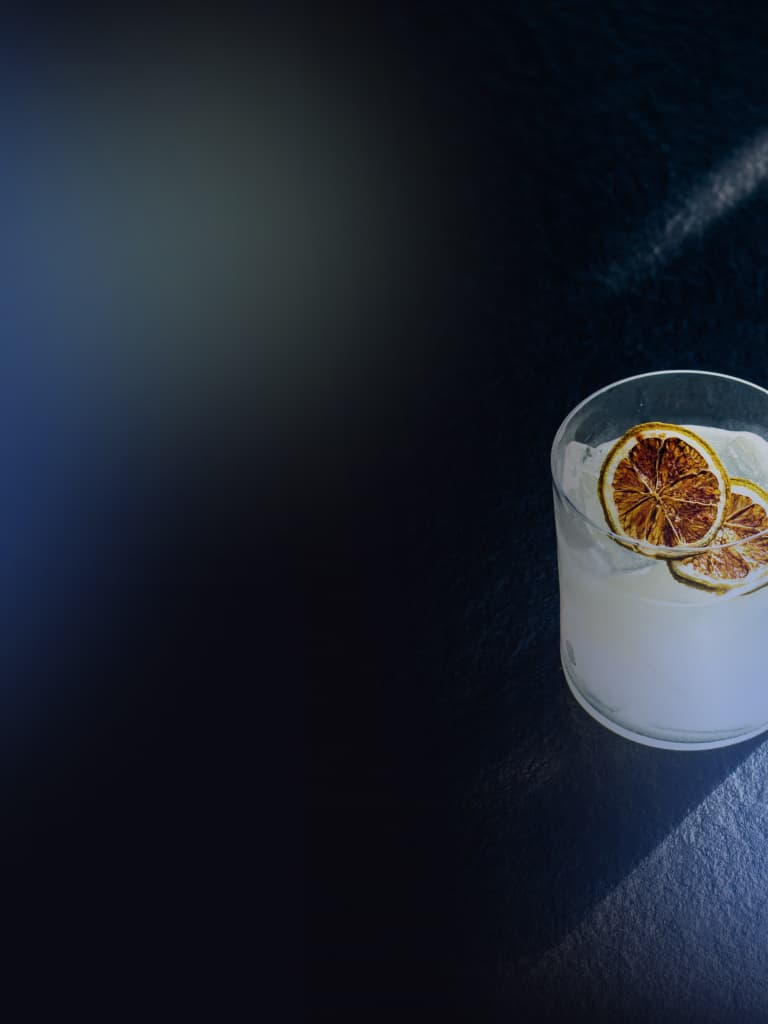
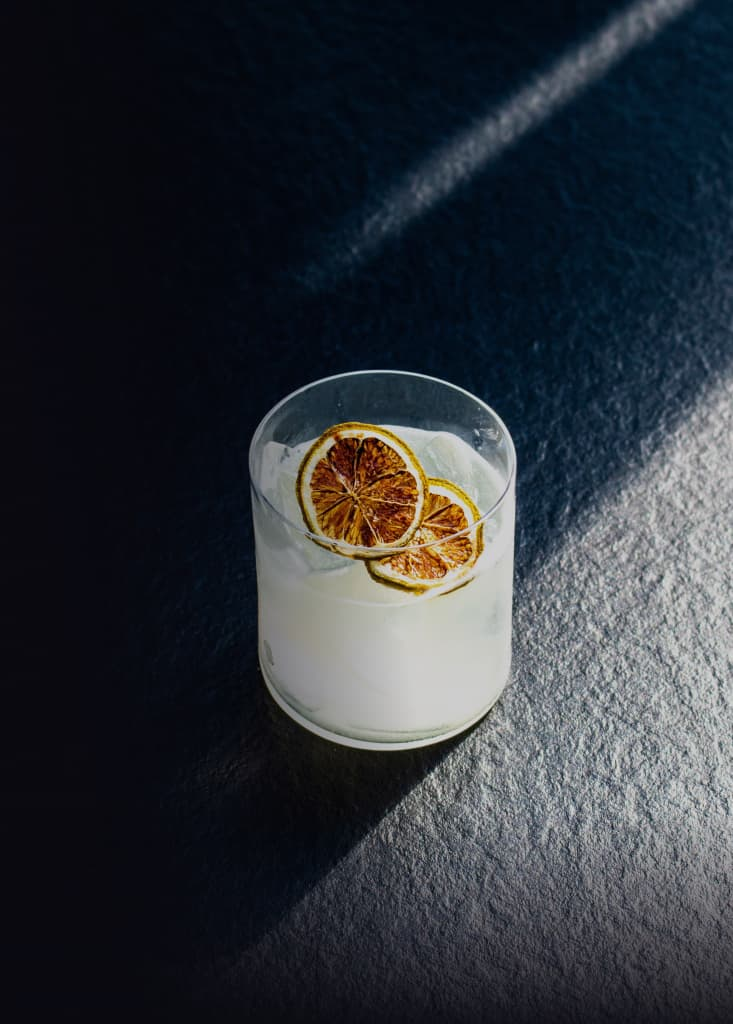
updated pictures

diff --git a/src/pages/WelcomePages/StartPage/StartPage.styled.jsx b/src/pages/WelcomePages/StartPage/StartPage.styled.jsx
@@ -2,38 +2,19 @@ import styled from 'styled-components';
 import { Link } from 'react-router-dom';
 import { CommonContainer } from '../../../components/GlobalStyles/CommonContainer.styled';
 
-// import startMobile1x from '../../../assets/start/start_mobile@1x.jpg';
-// import startMobile2x from '../../../assets/start/start_mobile@2x.jpg';
+import startMobile1x from '../../../assets/start/start_mobile@1x.jpg';
+import startMobile2x from '../../../assets/start/start_mobile@2x.jpg';
 
-// import startTublet1x from '../../../assets/start/start_tablet@1x.jpg';
-// import startTublet2x from '../../../assets/start/start_tablet@2x.jpg';
+import startTublet1x from '../../../assets/start/start_tablet@1x.jpg';
+import startTublet2x from '../../../assets/start/start_tablet@2x.jpg';
 
-// import startPC1x from '../../../assets/start/start@1x.jpg';
-// import startPC2x from '../../../assets/start/start@2x.jpg';
-import start1 from '../../../assets/start/start-1.jpg';
-import start2 from '../../../assets/start/start-2.jpg';
-
-import starttab1 from '../../../assets/start/start-tab-1.jpg';
-import starttab2 from '../../../assets/start/start-tab-2.jpg';
-
-
-import startmob1 from '../../../assets/start/mob-1.jpg';
-import startmob2 from '../../../assets/start/mob-2.jpg';
+import startPC1x from '../../../assets/start/start@1x.jpg';
+import startPC2x from '../../../assets/start/start@2x.jpg';
 
 import startEllipseLeft from '../../../assets/start/start-ellipse-left.svg';
 import startEllipseRight from '../../../assets/start/start-ellipse-right.svg';
 import startEllipseLeftTab from '../../../assets/start/tab-elipse-left.svg';
 import startEllipseRightTab from '../../../assets/start/tab-elipse-right.svg';
-// import ellipseLeftFooter from '../../../assets/footer/ellipseleft-footer.png';
-// import ellipseRightFooter from '../../../assets/footer/ellipseright-footer.png';
-
-// import background380 from './assets/bg/background380.png';
-// import background550 from '../../../assets/bg/background550.png';
-// import background850 from './assets/bg/background850.png';
-
-
-// import startEllipseLeftMob from '../../../assets/start/mob-elipse-left.svg';
-// import startEllipseRightTab from '../../../assets/start/tab-elipse-right.svg';
 
 export const StartPageStyled = styled.section`
   display: flex;
@@ -44,7 +25,7 @@ export const StartPageStyled = styled.section`
   height: 100vh;
 
   background: url(${startEllipseLeftTab}), url(${startEllipseRightTab}),
-    url(${startmob1});
+    url(${startMobile1x});
   background-repeat: no-repeat;
   background-size: 100%, 40%, auto;
   background-position:
@@ -58,7 +39,7 @@ export const StartPageStyled = styled.section`
     (max-width: 767.98px) and (min-resolution: 192dpi),
     (max-width: 767.98px) and (min-resolution: 2dppx) {
     background: url(${startEllipseLeftTab}), url(${startEllipseRightTab}),
-      url(${startmob2});
+      url(${startMobile2x});
     background-repeat: no-repeat;
     background-size: 100%, 40%, 150%;
     background-position:
@@ -70,7 +51,7 @@ export const StartPageStyled = styled.section`
 
   @media (min-width: 768px) {
     background: url(${startEllipseLeftTab}), url(${startEllipseRightTab}),
-      url(${starttab1});
+      url(${startTublet1x});
     background-repeat: no-repeat;
     background-size: 70%, 30%, 80%;
     background-position:
@@ -84,18 +65,18 @@ export const StartPageStyled = styled.section`
     (min-width: 768px) and (min-resolution: 192dpi),
     (min-width: 768px) and (min-resolution: 2dppx) {
     background: url(${startEllipseLeftTab}), url(${startEllipseRightTab}),
-      url(${starttab2});
+      url(${startTublet2x});
     background-repeat: no-repeat;
-    background-size: 70%, 30%, 56%;
+    background-size: 70%, 30%, 80%;
     background-position:
       top left,
       bottom right,
-      center right;
+      center right -140%;
     background-color: #0a090f;
   }
   @media (min-width: 1440px) {
     background: url(${startEllipseLeft}), url(${startEllipseRight}),
-      url(${start1});
+      url(${startPC1x});
     background-repeat: no-repeat;
     background-size: 50%, 30%, 45%;
     background-position:
@@ -109,7 +90,7 @@ export const StartPageStyled = styled.section`
     (min-width: 1440px) and (min-resolution: 192dpi),
     (min-width: 1440px) and (min-resolution: 2dppx) {
     background: url(${startEllipseLeft}), url(${startEllipseRight}),
-      url(${start2});
+      url(${startPC2x});
     background-repeat: no-repeat;
     background-size: 50%, 30%, 45%;
     background-position:
@@ -123,7 +104,6 @@ export const StartPageStyled = styled.section`
 export const Container = styled(CommonContainer)`
   @media (min-width: 375px) {
     width: 375px;
-    /* margin: 0 auto; */
   }
 
   @media (min-width: 768px) {

diff --git a/src/components/RegistartionLogin/AuthForm.styled.jsx b/src/components/RegistartionLogin/AuthForm.styled.jsx
@@ -2,23 +2,15 @@ import styled from 'styled-components';
 import { Link } from 'react-router-dom';
 import { CommonContainer } from '../GlobalStyles/CommonContainer.styled';
 
-// import startMobile1x from '../../assets/start/start_mobile@1x.jpg';
-// import startMobile2x from '../../assets/start/start_mobile@2x.jpg';
+import startMobile1x from '../../assets/start/start_mobile@1x.jpg';
+import startMobile2x from '../../assets/start/start_mobile@2x.jpg';
 
-// import startTublet1x from '../../assets/start/start_tablet@1x.jpg';
-// import startTublet2x from '../../assets/start/start_tablet@2x.jpg';
+import startTublet1x from '../../assets/start/start_tablet@1x.jpg';
+import startTublet2x from '../../assets/start/start_tablet@2x.jpg';
 
-// import startPC1x from '../../assets/start/start@1x.jpg';
-// import startPC2x from '../../assets/start/start@2x.jpg';
+import startPC1x from '../../assets/start/start@1x.jpg';
+import startPC2x from '../../assets/start/start@2x.jpg';
 
-import start1 from '../../assets/start/start-1.jpg';
-import start2 from '../../assets/start/start-2.jpg';
-
-import starttab1 from '../../assets/start/start-tab-1.jpg';
-import starttab2 from '../../assets/start/start-tab-2.jpg';
-
-import startmob1 from '../../assets/start/mob-1.jpg';
-import startmob2 from '../../assets/start/mob-2.jpg';
 import startEllipseLeft from '../../assets/start/start-ellipse-left.svg';
 import startEllipseRight from '../../assets/start/start-ellipse-right.svg';
 import startEllipseLeftTab from '../../assets/start/tab-elipse-left.svg';
@@ -33,7 +25,7 @@ export const Section = styled.section`
   height: 100vh;
 
   background: url(${startEllipseLeftTab}), url(${startEllipseRightTab}),
-    url(${startmob1});
+    url(${startMobile1x});
   background-repeat: no-repeat;
   background-size: 100%, 40%, auto;
   background-position:
@@ -47,7 +39,7 @@ export const Section = styled.section`
     (max-width: 767.98px) and (min-resolution: 192dpi),
     (max-width: 767.98px) and (min-resolution: 2dppx) {
     background: url(${startEllipseLeftTab}), url(${startEllipseRightTab}),
-      url(${startmob2});
+      url(${startMobile2x});
     background-repeat: no-repeat;
     background-size: 100%, 40%, 150%;
     background-position:
@@ -59,7 +51,7 @@ export const Section = styled.section`
 
   @media (min-width: 768px) {
     background: url(${startEllipseLeftTab}), url(${startEllipseRightTab}),
-      url(${starttab1});
+      url(${startTublet1x});
     background-repeat: no-repeat;
     background-size: 70%, 30%, 80%;
     background-position:
@@ -73,18 +65,18 @@ export const Section = styled.section`
     (min-width: 768px) and (min-resolution: 192dpi),
     (min-width: 768px) and (min-resolution: 2dppx) {
     background: url(${startEllipseLeftTab}), url(${startEllipseRightTab}),
-      url(${starttab2});
+      url(${startTublet2x});
     background-repeat: no-repeat;
-    background-size: 70%, 30%, 56%;
+    background-size: 70%, 30%, 80%;
     background-position:
       top left,
       bottom right,
-      center right;
+      center right -140%;
     background-color: #0a090f;
   }
   @media (min-width: 1440px) {
     background: url(${startEllipseLeft}), url(${startEllipseRight}),
-      url(${start1});
+      url(${startPC1x});
     background-repeat: no-repeat;
     background-size: 50%, 30%, 45%;
     background-position:
@@ -98,7 +90,7 @@ export const Section = styled.section`
     (min-width: 1440px) and (min-resolution: 192dpi),
     (min-width: 1440px) and (min-resolution: 2dppx) {
     background: url(${startEllipseLeft}), url(${startEllipseRight}),
-      url(${start2});
+      url(${startPC2x});
     background-repeat: no-repeat;
     background-size: 50%, 30%, 45%;
     background-position:

diff --git a/src/components/RegistartionLogin/Forms/Fields.styled.jsx b/src/components/RegistartionLogin/Forms/Fields.styled.jsx
@@ -70,9 +70,11 @@ export const Form = styled(FormikForm)`
   display: flex;
   flex-direction: column;
   gap: 14px;
-  width: 335px;
+  width: 85vw;
   margin-bottom: 14px;
-
+  @media (min-width: 375px) {
+    width: 335px;
+  }
   @media (min-width: 768px) {
     width: 400px;
   }
